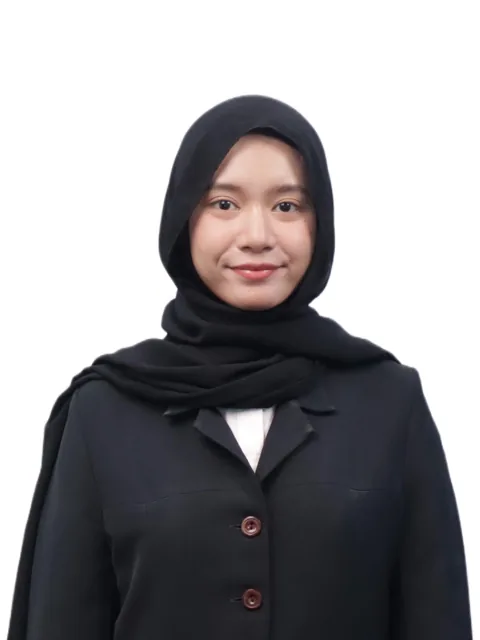
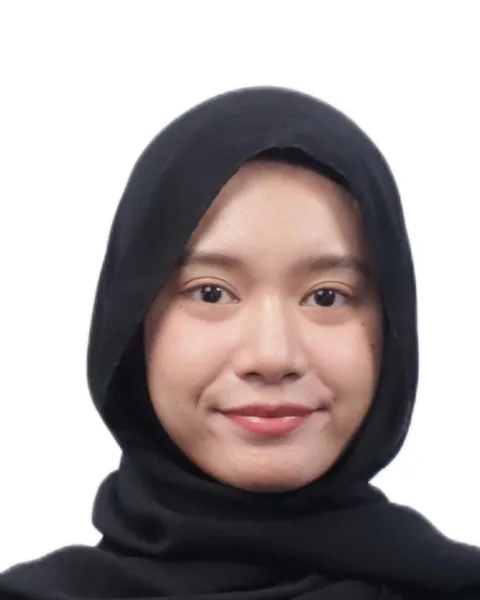
Fix image aspect ratios, smaller member photos, recrop Reicha photo

diff --git a/members.html b/members.html
@@ -20,7 +20,7 @@
   </div>
 </header>
 <main>
-<section class="wrap page-title"><h1>Members</h1></section><section class="wrap" style="padding-bottom:48px"><ul class="people"><li class="person"><img src="assets/img/members/heejung-lee.webp" alt="Heejung Lee" loading="lazy" width="480" height="600"><h3>이희정<span>Heejung Lee</span></h3><p class="role">PhD Student (2025 ~ )</p><p>Research interest: Wearable sensing for inferring human perception, geospatial big data analysis, urban peak exposure analysis using anomaly detection, urban change detection using satellite imagery, AI-based urban vulnerability assessment and preparedness planning</p></li><li class="person"><img src="assets/img/members/taeyoon-kim.webp" alt="Taeyoon Kim" loading="lazy" width="480" height="600"><h3>김태윤<span>Taeyoon Kim</span></h3><p class="role">PhD Student (2024 ~ )</p><p>Research interest: Automated assessment of physical walkability with pedestrian behavioral responses using keypoint detection, automated multi-dimensional urban quality diagnostics, multimodal AI for urban sentiment perception and personalized place recommendation</p></li><li class="person"><img src="assets/img/members/reicha.webp" alt="Reicha Santiana Jesca Adriesti" loading="lazy" width="480" height="600"><h3>Reicha Santiana Jesca Adriesti<span></span></h3><p class="role">PhD Student (2026 ~ )</p><p>Research interest: TBD</p></li><li class="person"><img src="assets/img/members/jiwon-choi.webp" alt="Jiwon Choi" loading="lazy" width="480" height="600"><h3>최지원<span>Jiwon Choi</span></h3><p class="role">MSc Student (2025 ~ )</p><p>Research interest: Generative landscape design and optimization</p></li><li class="person"><img src="assets/img/members/yeji-hwang.webp" alt="Yeji Hwang" loading="lazy" width="480" height="600"><h3>황예지<span>Yeji Hwang</span></h3><p class="role">MSc Student (2025 ~ )</p><p>Research interest: Evaluation of serial vision in urban landscapes</p></li><li class="person"><img src="assets/img/members/seonhee-kang.webp" alt="Seon Hee Kang" loading="lazy" width="480" height="600"><h3>강선희<span>Seon Hee Kang</span></h3><p class="role">Integrated BSc/MSc Student (2025 ~ )</p><p>Research interest: Quantitative assessment of urban greenery quality, automated generation of streetscape improvement plans</p><p class="note">BSc Thesis: Interpretable Assessment of Human-Perceived Street-Level Urban Greenery Quality via Panoptic Segmented Visual Features (대한건축학회 우수졸업논문전 학사부문 최우수상)</p></li><li class="person"><img src="assets/img/members/seokang-ko.webp" alt="Seokang Ko" loading="lazy" width="480" height="600"><h3>고서강<span>Seokang Ko</span></h3><p class="role">MSc Student (2026 ~ )</p><p>Research interest: Keypoint-based vulnerable pedestrian monitoring using CCTV videos</p></li><li class="person"><img src="assets/img/members/hayoun-cho.webp" alt="Hayoun Cho" loading="lazy" width="480" height="600"><h3>조하윤<span>Hayoun Cho</span></h3><p class="role">Undergraduate Student (2026 ~ )</p><p>Research interest: TBD</p></li></ul></section><section class="sec"><div class="wrap"><h2>Alumni</h2><h3 style="margin:24px 0 8px;font-size:1rem">PhD</h3><ul class="alumni"><li><div><b>Dr. Meesung Lee</b><span class="yr">2020–2024</span></div><div><span class="pos">Postdoc, University of Alberta, Canada</span><span class="th">Doctoral Dissertation: Evaluation of Visual Pleasantness-unpleasantness in Urban Streetscapes through Image-based Micro-scale Environmental Components Detection (이화여자대학교 일반대학원 우수학위논문상)</span></div></li><li><div><b>Dr. Siyeon Kim</b><span class="yr">2020–2024</span></div><div><span class="pos">Postdoc, Purdue University, U.S.</span><span class="th">Doctoral Dissertation: Pedestrian Discomfort Inference in Urban Environments via CCTV-Based Gait Pattern Analysis with Anomaly Detection (이화여자대학교 일반대학원 우수학위논문상)</span></div></li></ul><h3 style="margin:24px 0 8px;font-size:1rem">MSc</h3><ul class="alumni"><li><div><b>Suyeon Shin</b><span class="yr">2024–2026</span></div><div><span class="th">Master&#39;s Thesis: Capacity-adjusted Crowd Density Analysis in Narrow Urban Alleys Using Active Population Big Data and Raster-skeleton-based Road-space Capacity Estimation</span></div></li><li><div><b>Taeyoon Kim</b><span class="yr">2024–2026</span></div><div><span class="th">Master&#39;s Thesis: Automated Barrier Inference in Pedestrian Walkways from Surveillance Videos through Ankle Keypoint Relationship-Based Anomaly Detection (대한건축학회 우수졸업논문전 장려상)</span></div></li><li><div><b>Youngseo Shim</b><span class="yr">2024–2026</span></div><div><span class="pos">Kunwon Engineering (건원엔지니어링)</span><span class="th">Master&#39;s Thesis: Advancing Automated Evaluation of Urban Environmental Quality Through Qualitative Attribute Inference from Streetscape Images</span></div></li><li><div><b>Taeeun Kim</b><span class="yr">2022–2024</span></div><div><span class="pos">Kunwon Engineering (건원엔지니어링)</span><span class="th">Master&#39;s Thesis: Human Emotion Assessment Using Wearable Sensing and Machine Learning with Anomaly Detection in the Urban Environment (대한건축학회 우수졸업논문전 장려상)</span></div></li><li><div><b>Yeon Joo Kim</b><span class="yr">2021–2023</span></div><div><span class="pos">BISTEP (부산과학기술고등교육진흥원)</span><span class="th">Master&#39;s Thesis: 가상환경을 활용한 속도 및 거리 기반 사람-차량 충돌위험 예측지표 평가: 건설 작업자 및 보행자를 대상으로</span></div></li><li><div><b>Heejung Lee</b><span class="yr">2021–2024</span></div><div><span class="th">Master&#39;s Thesis: Inferring Pedestrian Level of Service for Pathways through Electrodermal Activity Monitoring Using Wearable Physiological Sensors</span></div></li><li><div><b>Heerim Lee</b><span class="yr">2018–2020</span></div><div><span class="pos">Lotte E&amp;C (롯데건설)</span><span class="th">Master&#39;s Thesis: 신체적 및 정신적 부하에 따른 건설작업자의 안전 관련 상황인식 영향 분석 연구</span></div></li><li><div><b>Meesung Lee</b><span class="yr">2018–2020</span></div><div><span class="th">Master&#39;s Thesis: What Factors Affect Public Bike Demand by Purpose?: Integrated Analysis of User&#x27;s Trip Patterns and Urban Geospatial Big Data</span></div></li><li><div><b>Siyeon Kim</b><span class="yr">2018–2020</span></div><div><span class="th">Master&#39;s Thesis: Framework for Abnormal Situation Identification based on Action Detection and Sequence Analysis: Focusing on Shoplifting</span></div></li></ul><h3 style="margin:24px 0 8px;font-size:1rem">Postdoc</h3><ul class="alumni"><li><div><b>Seulbi Lee</b><span class="yr">2021</span></div><div><span class="pos">Assistant Professor, Incheon National University</span></div></li></ul><h3 style="margin:24px 0 8px;font-size:1rem">Undergraduate Students</h3><ul class="chips"><li>Gaeun Lee<span>2024–2026</span></li><li>Chaeyeon Yoo<span>2024–2026</span></li><li>Hajin Cho<span>2023–2025</span></li><li>Yeoreum Yoon<span>2023–2025</span></li><li>Saerin Bong<span>2022–2024</span></li><li>Na-Kyung Kang<span>2023–2024</span></li><li>Yun Ah Im<span>2020–2021</span></li><li>Se Eun Gong<span>2020</span></li><li>ChaeEun Im<span>2018</span></li></ul></div></section>
+<section class="wrap page-title"><h1>Members</h1></section><section class="wrap" style="padding-bottom:48px"><ul class="people"><li class="person"><img src="assets/img/members/heejung-lee.webp" alt="Heejung Lee" loading="lazy" width="480" height="600"><div><h3>이희정<span>Heejung Lee</span></h3><p class="role">PhD Student (2025 ~ )</p><p>Research interest: Wearable sensing for inferring human perception, geospatial big data analysis, urban peak exposure analysis using anomaly detection, urban change detection using satellite imagery, AI-based urban vulnerability assessment and preparedness planning</p></div></li><li class="person"><img src="assets/img/members/taeyoon-kim.webp" alt="Taeyoon Kim" loading="lazy" width="480" height="600"><div><h3>김태윤<span>Taeyoon Kim</span></h3><p class="role">PhD Student (2024 ~ )</p><p>Research interest: Automated assessment of physical walkability with pedestrian behavioral responses using keypoint detection, automated multi-dimensional urban quality diagnostics, multimodal AI for urban sentiment perception and personalized place recommendation</p></div></li><li class="person"><img src="assets/img/members/reicha.webp" alt="Reicha Santiana Jesca Adriesti" loading="lazy" width="480" height="600"><div><h3>Reicha Santiana Jesca Adriesti<span></span></h3><p class="role">PhD Student (2026 ~ )</p><p>Research interest: TBD</p></div></li><li class="person"><img src="assets/img/members/jiwon-choi.webp" alt="Jiwon Choi" loading="lazy" width="480" height="600"><div><h3>최지원<span>Jiwon Choi</span></h3><p class="role">MSc Student (2025 ~ )</p><p>Research interest: Generative landscape design and optimization</p></div></li><li class="person"><img src="assets/img/members/yeji-hwang.webp" alt="Yeji Hwang" loading="lazy" width="480" height="600"><div><h3>황예지<span>Yeji Hwang</span></h3><p class="role">MSc Student (2025 ~ )</p><p>Research interest: Evaluation of serial vision in urban landscapes</p></div></li><li class="person"><img src="assets/img/members/seonhee-kang.webp" alt="Seon Hee Kang" loading="lazy" width="480" height="600"><div><h3>강선희<span>Seon Hee Kang</span></h3><p class="role">Integrated BSc/MSc Student (2025 ~ )</p><p>Research interest: Quantitative assessment of urban greenery quality, automated generation of streetscape improvement plans</p><p class="note">BSc Thesis: Interpretable Assessment of Human-Perceived Street-Level Urban Greenery Quality via Panoptic Segmented Visual Features (대한건축학회 우수졸업논문전 학사부문 최우수상)</p></div></li><li class="person"><img src="assets/img/members/seokang-ko.webp" alt="Seokang Ko" loading="lazy" width="480" height="600"><div><h3>고서강<span>Seokang Ko</span></h3><p class="role">MSc Student (2026 ~ )</p><p>Research interest: Keypoint-based vulnerable pedestrian monitoring using CCTV videos</p></div></li><li class="person"><img src="assets/img/members/hayoun-cho.webp" alt="Hayoun Cho" loading="lazy" width="480" height="600"><div><h3>조하윤<span>Hayoun Cho</span></h3><p class="role">Undergraduate Student (2026 ~ )</p><p>Research interest: TBD</p></div></li></ul></section><section class="sec"><div class="wrap"><h2>Alumni</h2><h3 style="margin:24px 0 8px;font-size:1rem">PhD</h3><ul class="alumni"><li><div><b>Dr. Meesung Lee</b><span class="yr">2020–2024</span></div><div><span class="pos">Postdoc, University of Alberta, Canada</span><span class="th">Doctoral Dissertation: Evaluation of Visual Pleasantness-unpleasantness in Urban Streetscapes through Image-based Micro-scale Environmental Components Detection (이화여자대학교 일반대학원 우수학위논문상)</span></div></li><li><div><b>Dr. Siyeon Kim</b><span class="yr">2020–2024</span></div><div><span class="pos">Postdoc, Purdue University, U.S.</span><span class="th">Doctoral Dissertation: Pedestrian Discomfort Inference in Urban Environments via CCTV-Based Gait Pattern Analysis with Anomaly Detection (이화여자대학교 일반대학원 우수학위논문상)</span></div></li></ul><h3 style="margin:24px 0 8px;font-size:1rem">MSc</h3><ul class="alumni"><li><div><b>Suyeon Shin</b><span class="yr">2024–2026</span></div><div><span class="th">Master&#39;s Thesis: Capacity-adjusted Crowd Density Analysis in Narrow Urban Alleys Using Active Population Big Data and Raster-skeleton-based Road-space Capacity Estimation</span></div></li><li><div><b>Taeyoon Kim</b><span class="yr">2024–2026</span></div><div><span class="th">Master&#39;s Thesis: Automated Barrier Inference in Pedestrian Walkways from Surveillance Videos through Ankle Keypoint Relationship-Based Anomaly Detection (대한건축학회 우수졸업논문전 장려상)</span></div></li><li><div><b>Youngseo Shim</b><span class="yr">2024–2026</span></div><div><span class="pos">Kunwon Engineering (건원엔지니어링)</span><span class="th">Master&#39;s Thesis: Advancing Automated Evaluation of Urban Environmental Quality Through Qualitative Attribute Inference from Streetscape Images</span></div></li><li><div><b>Taeeun Kim</b><span class="yr">2022–2024</span></div><div><span class="pos">Kunwon Engineering (건원엔지니어링)</span><span class="th">Master&#39;s Thesis: Human Emotion Assessment Using Wearable Sensing and Machine Learning with Anomaly Detection in the Urban Environment (대한건축학회 우수졸업논문전 장려상)</span></div></li><li><div><b>Yeon Joo Kim</b><span class="yr">2021–2023</span></div><div><span class="pos">BISTEP (부산과학기술고등교육진흥원)</span><span class="th">Master&#39;s Thesis: 가상환경을 활용한 속도 및 거리 기반 사람-차량 충돌위험 예측지표 평가: 건설 작업자 및 보행자를 대상으로</span></div></li><li><div><b>Heejung Lee</b><span class="yr">2021–2024</span></div><div><span class="th">Master&#39;s Thesis: Inferring Pedestrian Level of Service for Pathways through Electrodermal Activity Monitoring Using Wearable Physiological Sensors</span></div></li><li><div><b>Heerim Lee</b><span class="yr">2018–2020</span></div><div><span class="pos">Lotte E&amp;C (롯데건설)</span><span class="th">Master&#39;s Thesis: 신체적 및 정신적 부하에 따른 건설작업자의 안전 관련 상황인식 영향 분석 연구</span></div></li><li><div><b>Meesung Lee</b><span class="yr">2018–2020</span></div><div><span class="th">Master&#39;s Thesis: What Factors Affect Public Bike Demand by Purpose?: Integrated Analysis of User&#x27;s Trip Patterns and Urban Geospatial Big Data</span></div></li><li><div><b>Siyeon Kim</b><span class="yr">2018–2020</span></div><div><span class="th">Master&#39;s Thesis: Framework for Abnormal Situation Identification based on Action Detection and Sequence Analysis: Focusing on Shoplifting</span></div></li></ul><h3 style="margin:24px 0 8px;font-size:1rem">Postdoc</h3><ul class="alumni"><li><div><b>Seulbi Lee</b><span class="yr">2021</span></div><div><span class="pos">Assistant Professor, Incheon National University</span></div></li></ul><h3 style="margin:24px 0 8px;font-size:1rem">Undergraduate Students</h3><ul class="chips"><li>Gaeun Lee<span>2024–2026</span></li><li>Chaeyeon Yoo<span>2024–2026</span></li><li>Hajin Cho<span>2023–2025</span></li><li>Yeoreum Yoon<span>2023–2025</span></li><li>Saerin Bong<span>2022–2024</span></li><li>Na-Kyung Kang<span>2023–2024</span></li><li>Yun Ah Im<span>2020–2021</span></li><li>Se Eun Gong<span>2020</span></li><li>ChaeEun Im<span>2018</span></li></ul></div></section>
 </main>
 <footer class="site-foot">
   <div class="wrap">

diff --git a/assets/style.css b/assets/style.css
@@ -31,7 +31,7 @@
 * { box-sizing: border-box; }
 html { scroll-behavior: smooth; }
 body { margin: 0; background: var(--bg); color: var(--text); font-family: var(--f-sans); font-size: 1rem; line-height: 1.7; -webkit-text-size-adjust: 100%; word-break: keep-all; overflow-wrap: anywhere; }
-img { max-width: 100%; display: block; }
+img { max-width: 100%; height: auto; display: block; }
 a { color: var(--link); }
 h1, h2, h3 { color: var(--ink); line-height: 1.3; margin: 0; }
 p { margin: 0; }
@@ -42,7 +42,7 @@ ul { margin: 0; padding: 0; list-style: none; }
 .site-head { position: sticky; top: 0; z-index: 5; background: var(--bg); border-bottom: 1px solid var(--line); }
 .site-head .wrap { display: flex; align-items: center; justify-content: space-between; gap: 16px; padding-block: 12px; }
 .brand { display: flex; align-items: center; gap: 12px; text-decoration: none; color: var(--ink); }
-.brand img { height: 40px; width: auto; border-radius: 6px; background: #fff; }
+.brand img { height: 40px; width: auto; flex: none; object-fit: contain; border-radius: 6px; background: #fff; }
 .brand span { font-weight: 700; font-size: 0.95rem; line-height: 1.25; }
 .brand small { display: block; font-weight: 500; color: var(--muted); font-size: 0.78rem; }
 .nav { display: flex; flex-wrap: wrap; gap: 4px 22px; font-size: 0.95rem; }
@@ -83,9 +83,10 @@ ul { margin: 0; padding: 0; list-style: none; }
 @media (max-width: 640px) { .news li { grid-template-columns: 1fr; gap: 6px; } }
 
 /* Members */
-.people { display: grid; grid-template-columns: repeat(auto-fill, minmax(240px, 1fr)); gap: 28px 24px; }
-.person img { width: 100%; aspect-ratio: 1 / 1; object-fit: cover; object-position: 50% 18%; border-radius: 10px; background: var(--soft); }
-.person h3 { font-size: 1.05rem; margin-top: 12px; }
+.people { display: grid; grid-template-columns: repeat(auto-fill, minmax(320px, 1fr)); gap: 28px 32px; }
+.person { display: grid; grid-template-columns: 112px minmax(0, 1fr); gap: 0 18px; align-items: start; }
+.person img { width: 112px; height: auto; aspect-ratio: 4 / 5; object-fit: cover; object-position: 50% 20%; border-radius: 10px; background: var(--soft); }
+.person h3 { font-size: 1.05rem; }
 .person h3 span { color: var(--muted); font-weight: 500; margin-left: 6px; }
 .person .role { color: var(--ink); font-size: 0.9rem; font-weight: 600; }
 .person p { font-size: 0.9rem; color: var(--muted); margin-top: 6px; }

diff --git a/tools/build.py b/tools/build.py
@@ -99,9 +99,9 @@ def members():
     cards = []
     for m in site["members"]:
         note = f'<p class="note">{e(m["note"])}</p>' if m.get("note") else ""
-        cards.append(f'<li class="person"><img src="assets/img/members/{m["img"]}.webp" alt="{e(m["name"])}" loading="lazy" width="480" height="600">'
+        cards.append(f'<li class="person"><img src="assets/img/members/{m["img"]}.webp" alt="{e(m["name"])}" loading="lazy" width="480" height="600"><div>'
                      f'<h3>{e(m["ko"] or m["name"])}<span>{e(m["name"]) if m["ko"] else ""}</span></h3>'
-                     f'<p class="role">{e(m["role"])} ({e(m["since"])} ~ )</p><p>Research interest: {e(m["interest"])}</p>{note}</li>')
+                     f'<p class="role">{e(m["role"])} ({e(m["since"])} ~ )</p><p>Research interest: {e(m["interest"])}</p>{note}</div></li>')
     al = []
     for grp in ("PhD", "MSc", "Postdoc"):
         label = "Doctoral Dissertation" if grp == "PhD" else "Master&#39;s Thesis"
